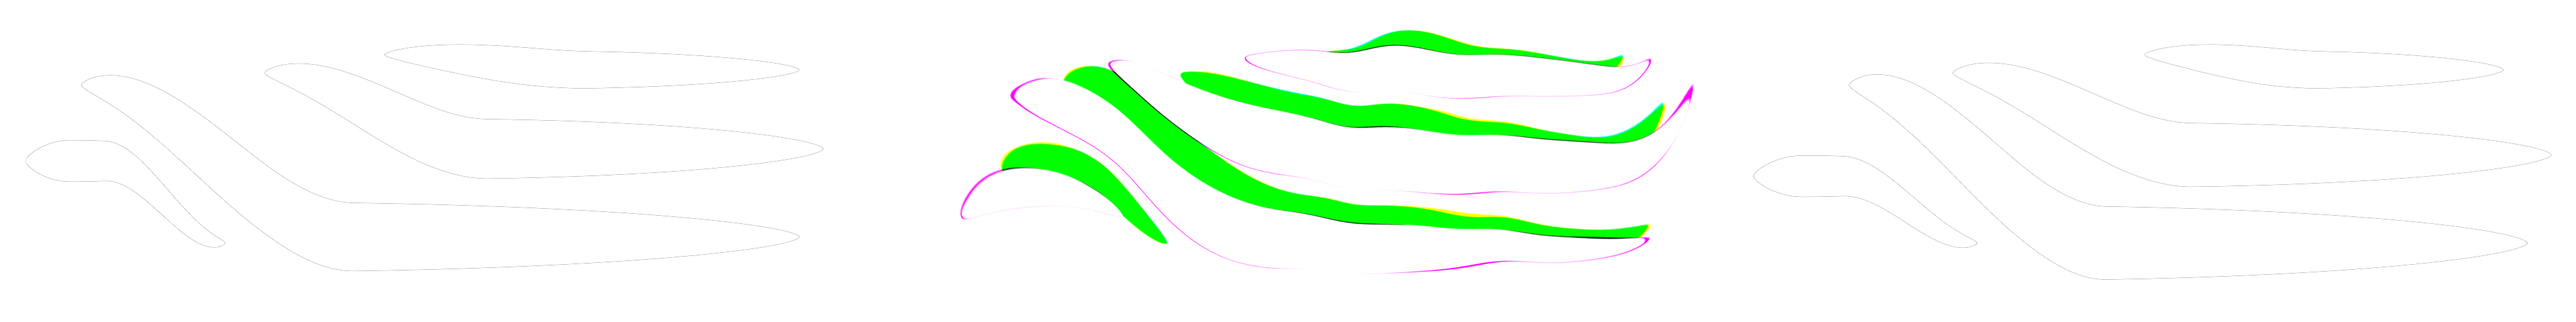
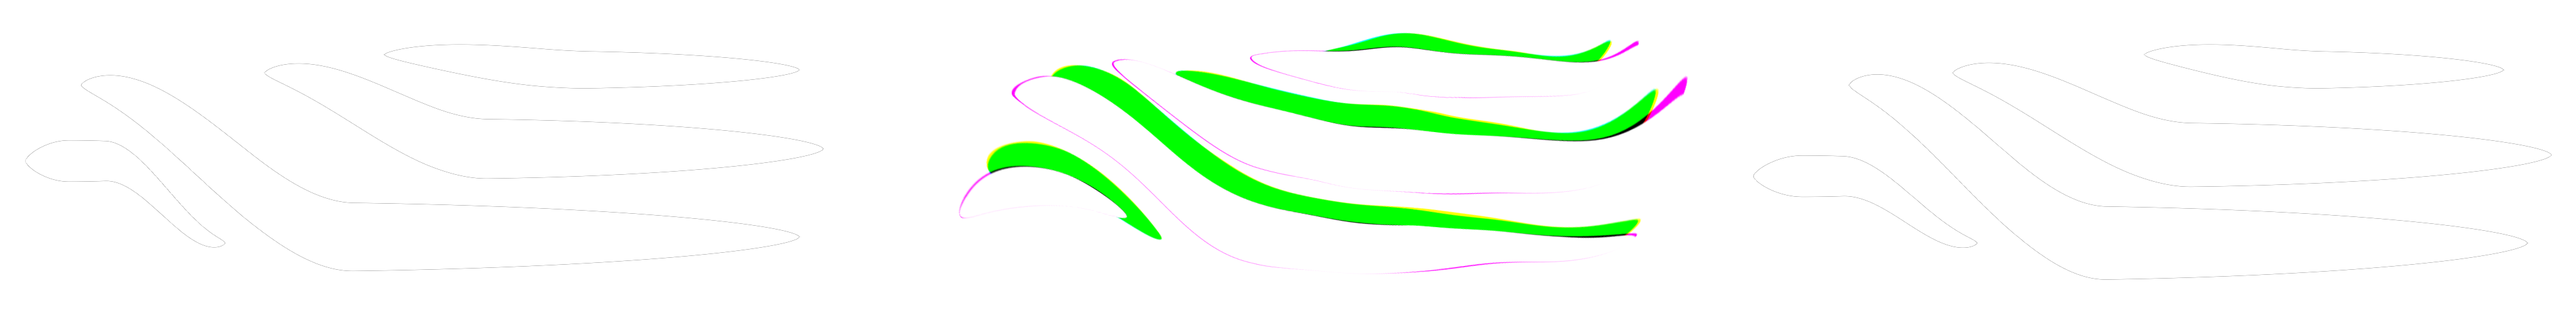
Emblem: smooth ring coordinates so grooves glide without wobbling
Each ring's two edges are now smoothed heavily, and position along the
ring is measured by true distance along its centre line. A steady wheel
turn therefore moves every groove steadily, without the stretching and
squeezing that read as wobble. At rest the emblem is still the logo.

diff --git a/site/public/assets/emblem-spin.js b/site/public/assets/emblem-spin.js
@@ -72,8 +72,10 @@
     '  float x = clamp(tau * 1024.0 - 0.5, 0.0, 1023.0); float i0 = floor(x); float i1 = min(i0 + 1.0, 1023.0);',
     '  vec4 ea = texture2D(uEdges, vec2((i0 + 0.5) / 1024.0, row)); vec4 eb = texture2D(uEdges, vec2((i1 + 0.5) / 1024.0, row));',
     '  vec2 ed = mix(vec2(uLmin), vec2(uLmax), mix(vec2(dec(ea.rg), dec(ea.ba)), vec2(dec(eb.rg), dec(eb.ba)), x - i0));',
+    // distance along the ring (0..1), so a steady wheel turn moves the grooves steadily
+    '  float sg = mix(dec(texture2D(uEdges, vec2((i0 + 0.5) / 1024.0, row + 0.5)).rg), dec(texture2D(uEdges, vec2((i1 + 0.5) / 1024.0, row + 0.5)).rg), x - i0);',
     '  float w = ed.y - ed.x; float u = (lam - ed.x) / (abs(w) < 0.001 ? 0.001 : w);',
-    '  float phi = asin(clamp(2.0 * tau - 1.0, -1.0, 1.0) * sin(uPhm));',
+    '  float phi = asin(clamp(2.0 * sg - 1.0, -1.0, 1.0) * sin(uPhm));',
     '  float y = (u - uU.x) / (uU.y - uU.x);',
     '  float ink = 0.0;',
     '  for (int i = 0; i < 8; i++) {',
@@ -99,7 +101,7 @@
     '    vec4 ch = chan(k); float w = dot(win, ch); float wt = dot(tw, ch);',
     '    if (w < 0.002 && wt < 0.002) continue;',
     '    float p = max(sin(0.5 * clamp(uTh[k] / TAU, 0.0, 1.0) * TAU), 0.0);',
-    '    vec2 r = ring(vP, uM[k], uE[k], uN[k], uL[k], uT[k], (float(k) + 0.5) / 4.0, uTh[k], uDTh[k], ch);',
+    '    vec2 r = ring(vP, uM[k], uE[k], uN[k], uL[k], uT[k], (float(k) + 0.5) / 8.0, uTh[k], uDTh[k], ch);',
     '    float spin = pow(p, 0.6);',
     '    float tone = (1.0 + spin * (-0.45 + 0.65 * r.y)) * (1.0 - 0.32 * pow(uAct, 0.6) * dot(shd, ch));',
     '    vec3 cc = clamp(uColor * tone + spin * 0.16 * pow(r.y, 14.0), 0.0, 1.0);',
